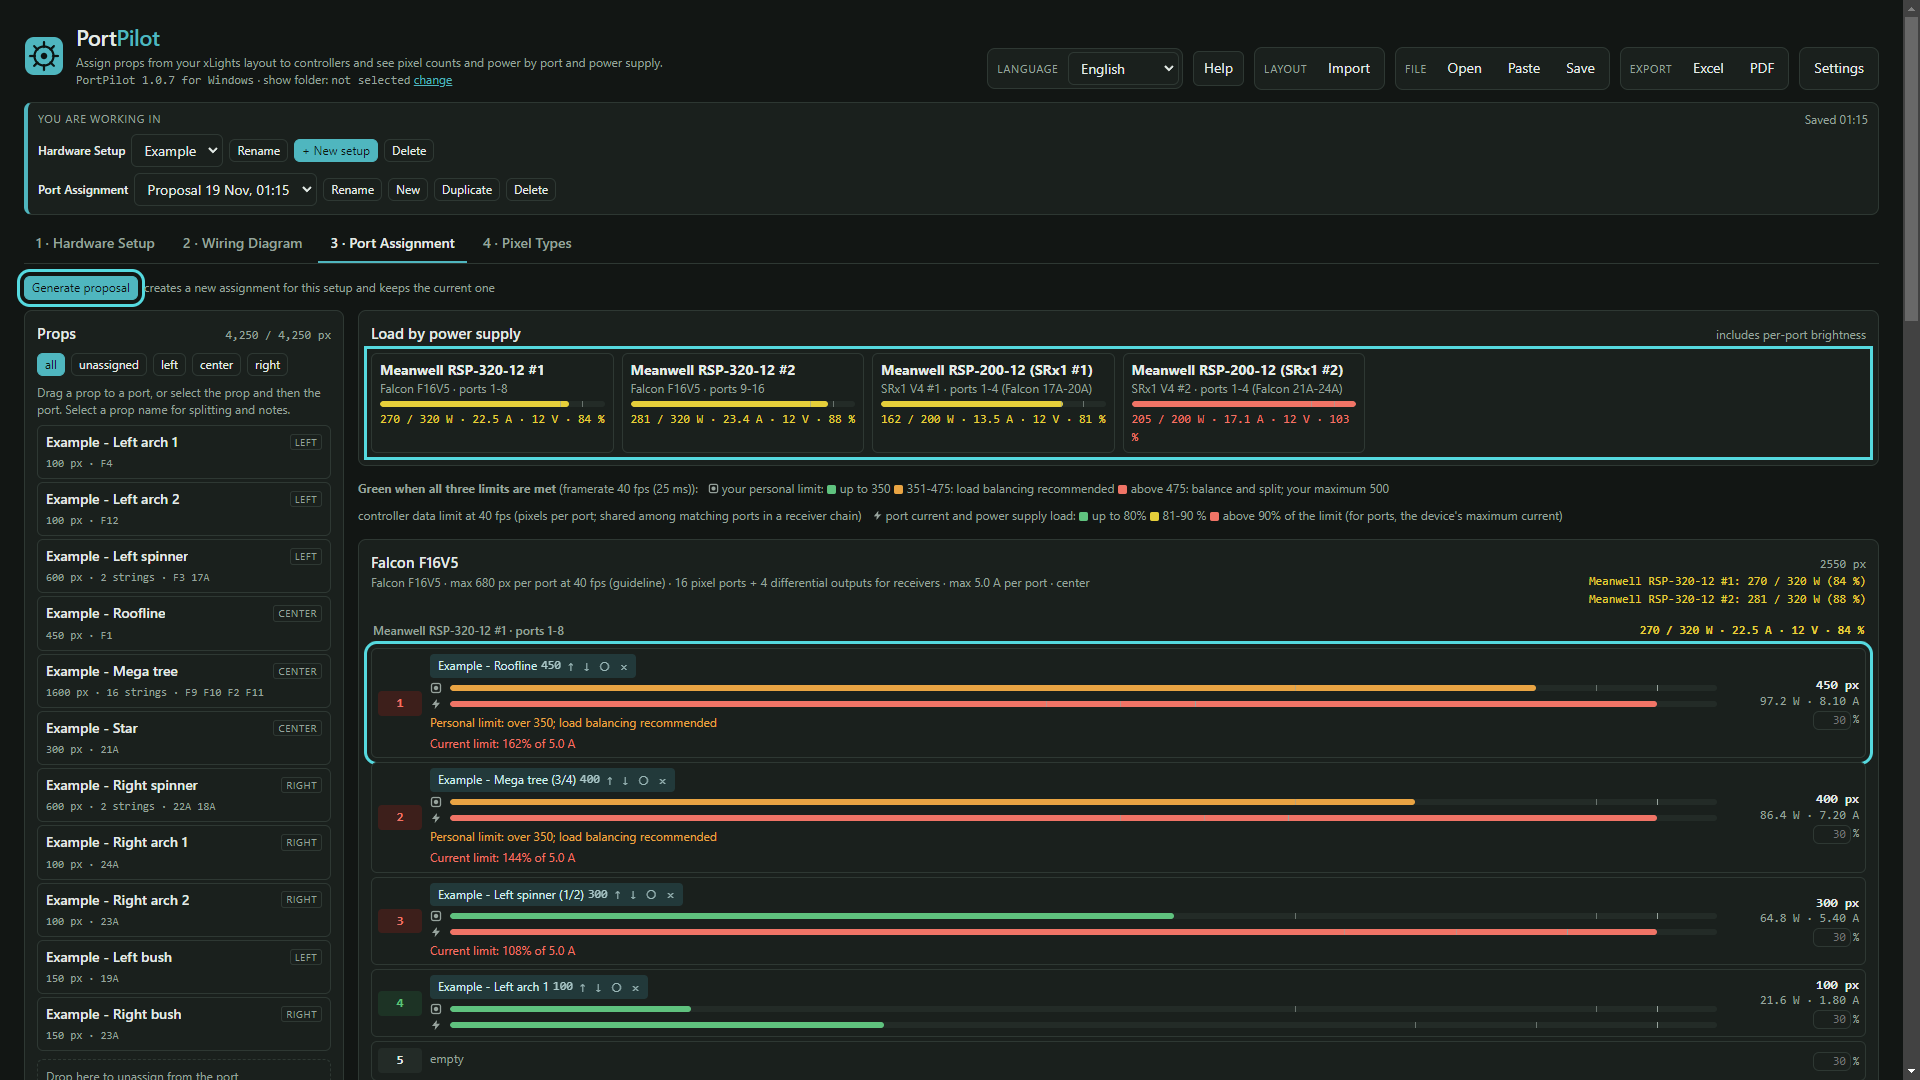
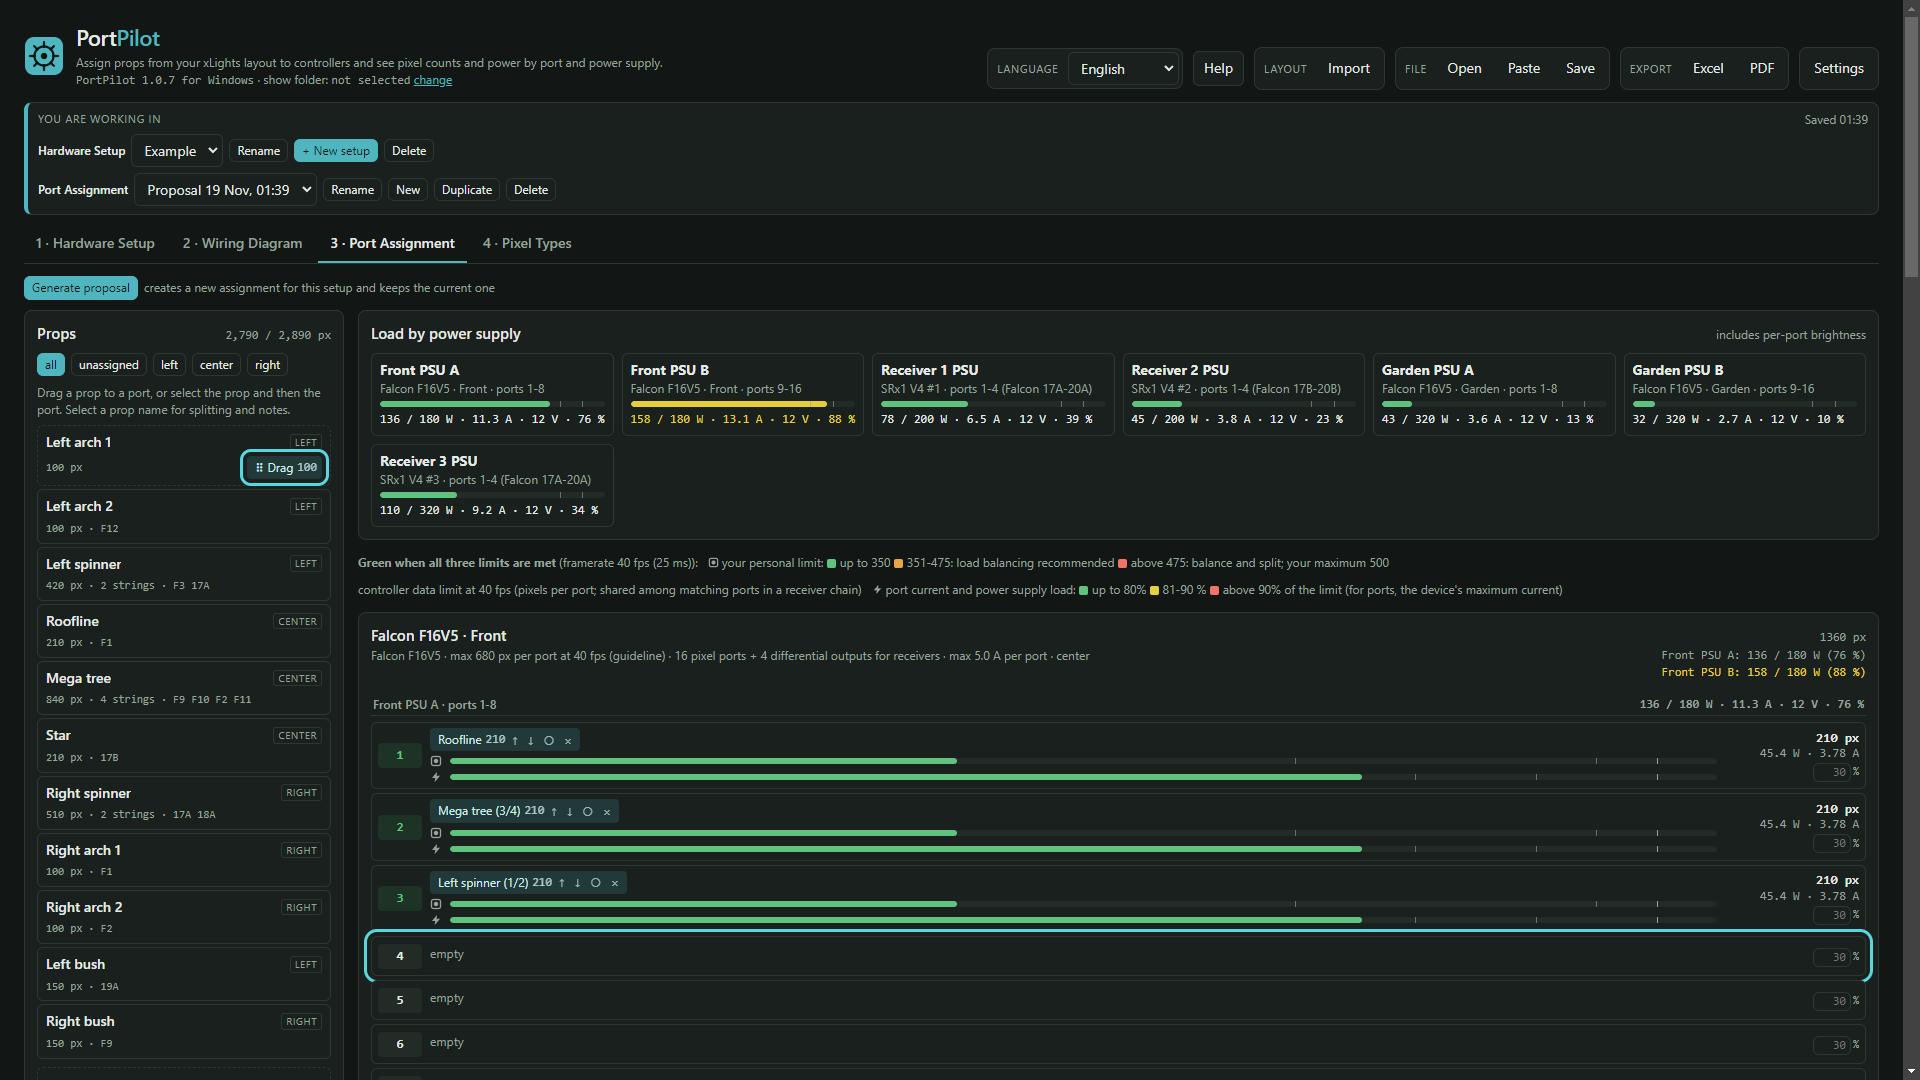
Show drag-and-drop and a single overloaded port

diff --git a/README.md b/README.md
@@ -6,9 +6,9 @@
 
 > **Early preview.** PortPilot is still in its early stages. More planning tools and workflow improvements are on the way. If something behaves differently from what you expect, a short bug report with steps to reproduce it is a big help.
 
-![PortPilot’s Port Assignment tab showing sample props, pixel counts, port limits and current warnings](docs/port-assignment.png)
+![Port Assignment with the Drag handle for Left arch 1 and empty controller port 4 outlined](docs/port-assignment.png)
 
-*Development preview with the built-in English example show. The outlines mark Generate proposal, the power supply summary, and a port with a current warning.*
+*Drag **Left arch 1** from the Props list onto port **4** of the front controller. The cyan outlines show where to pick up and drop the prop.*
 
 ## From xLights layout to wiring plan
 
